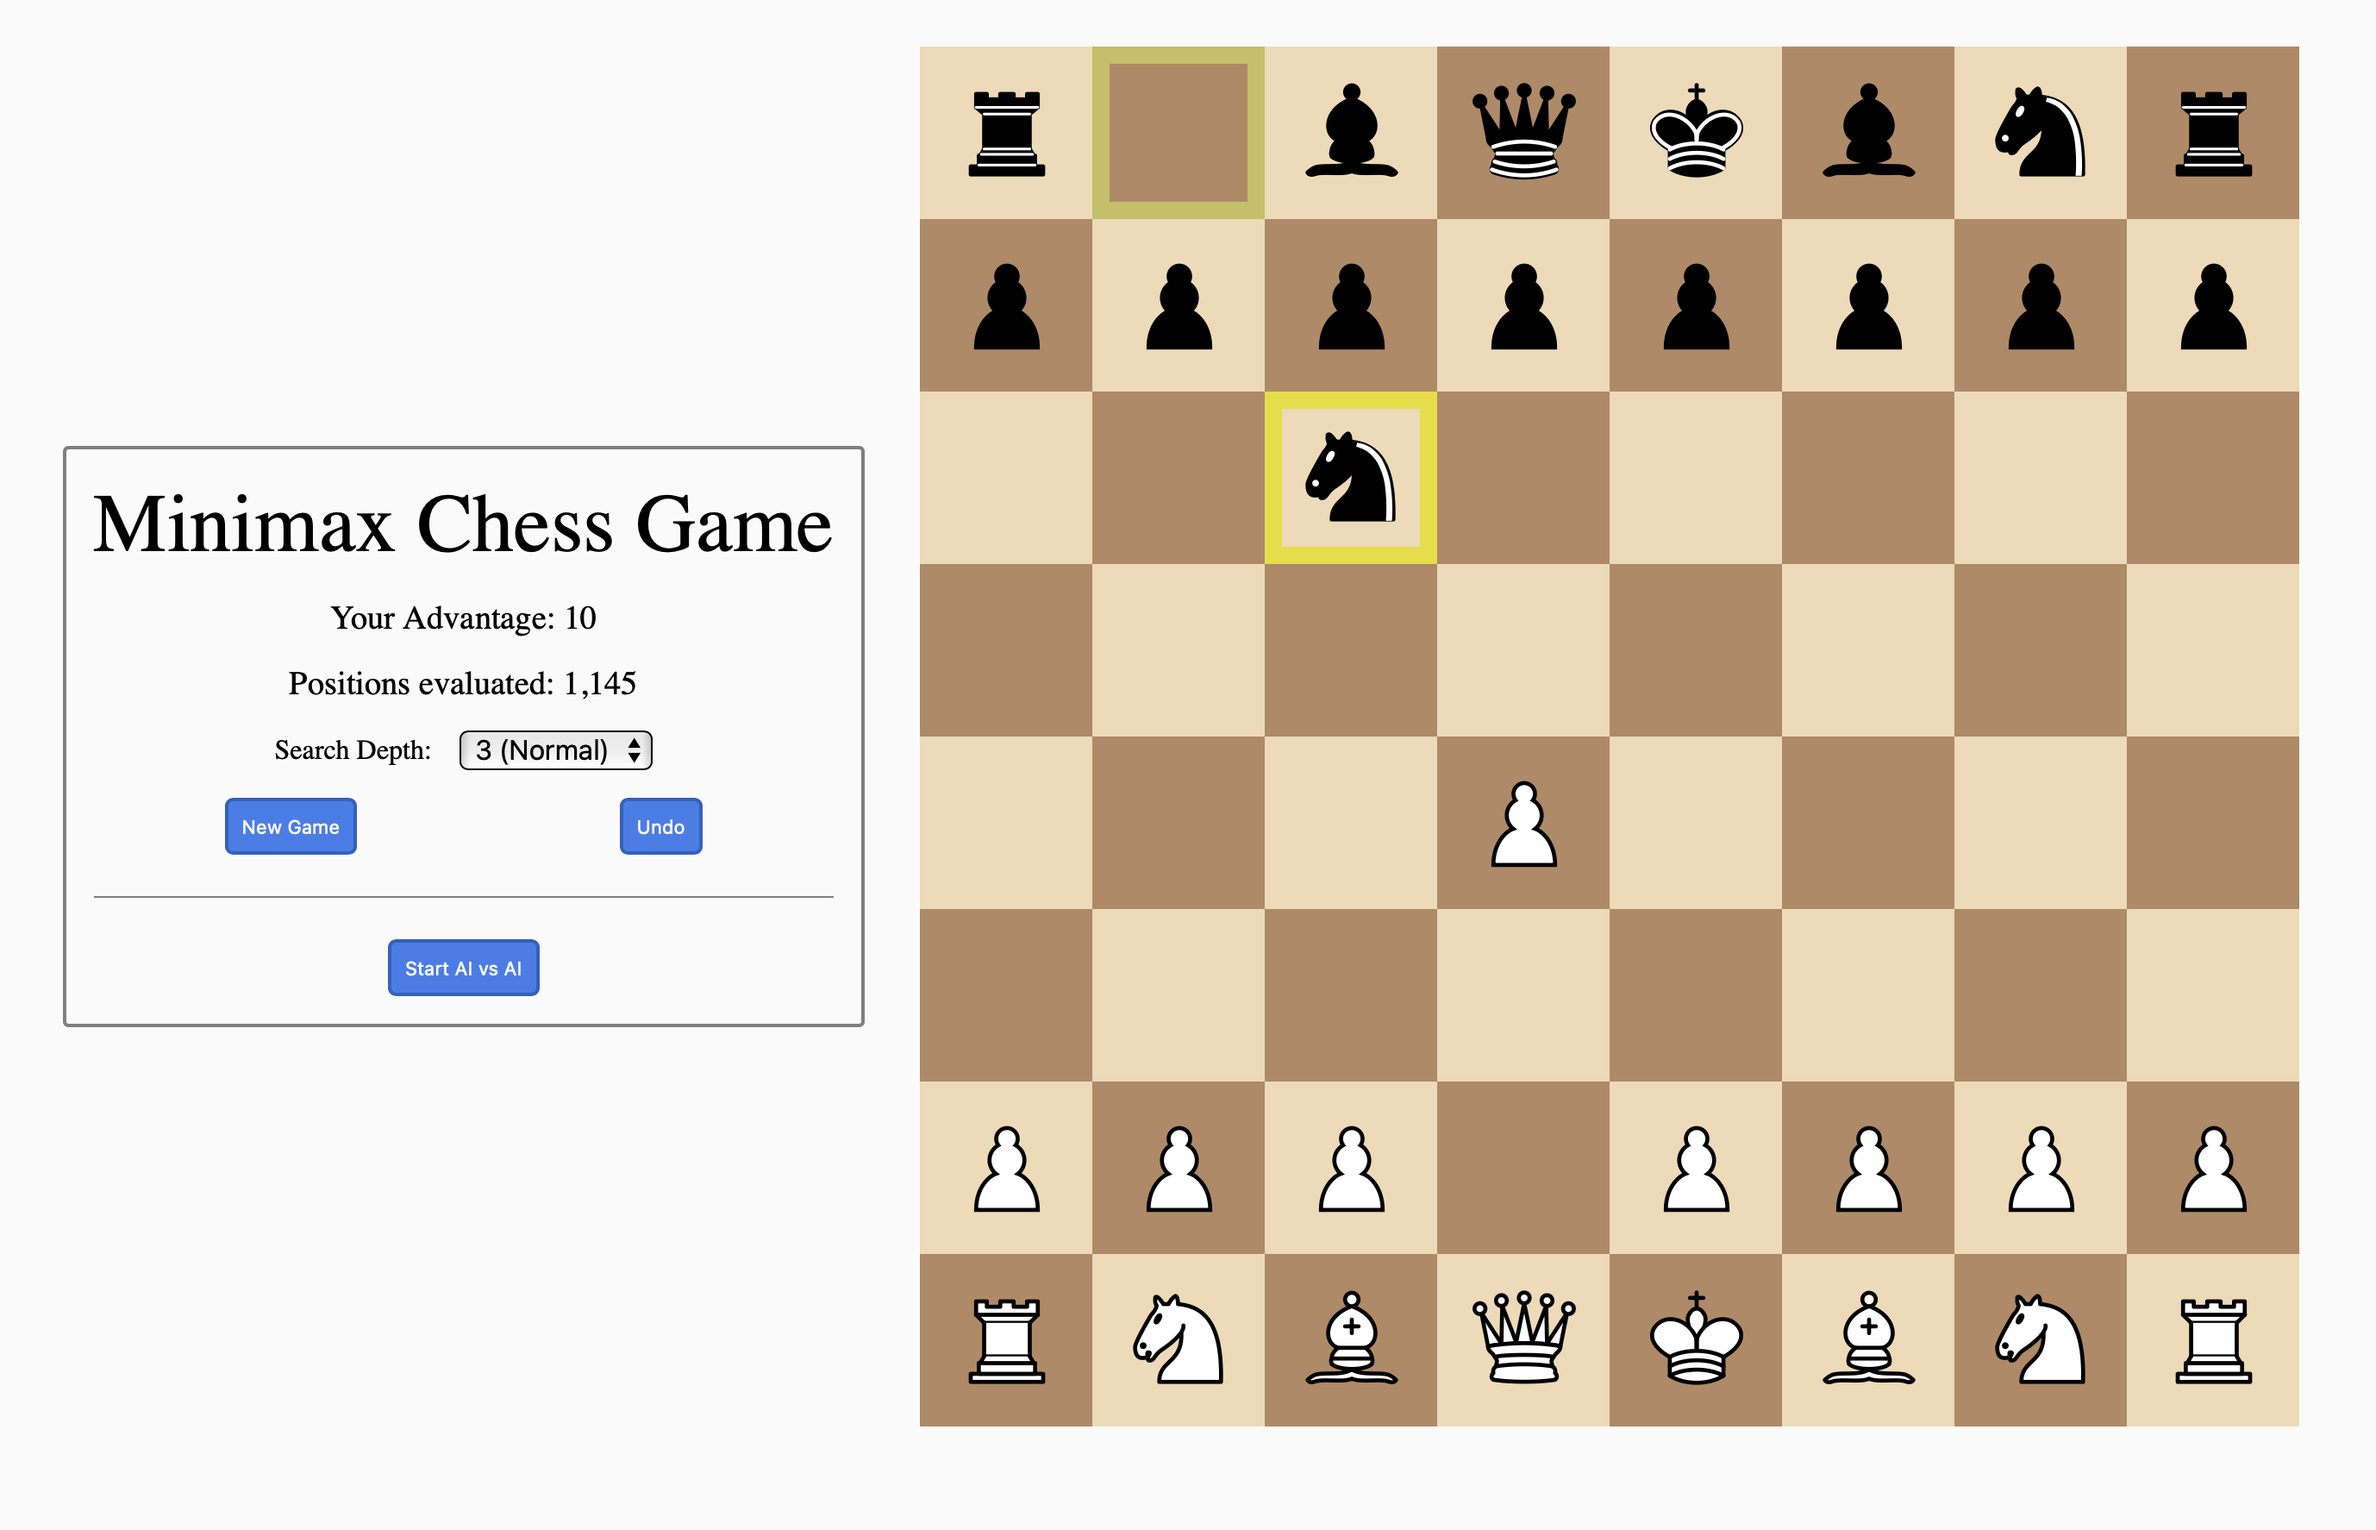
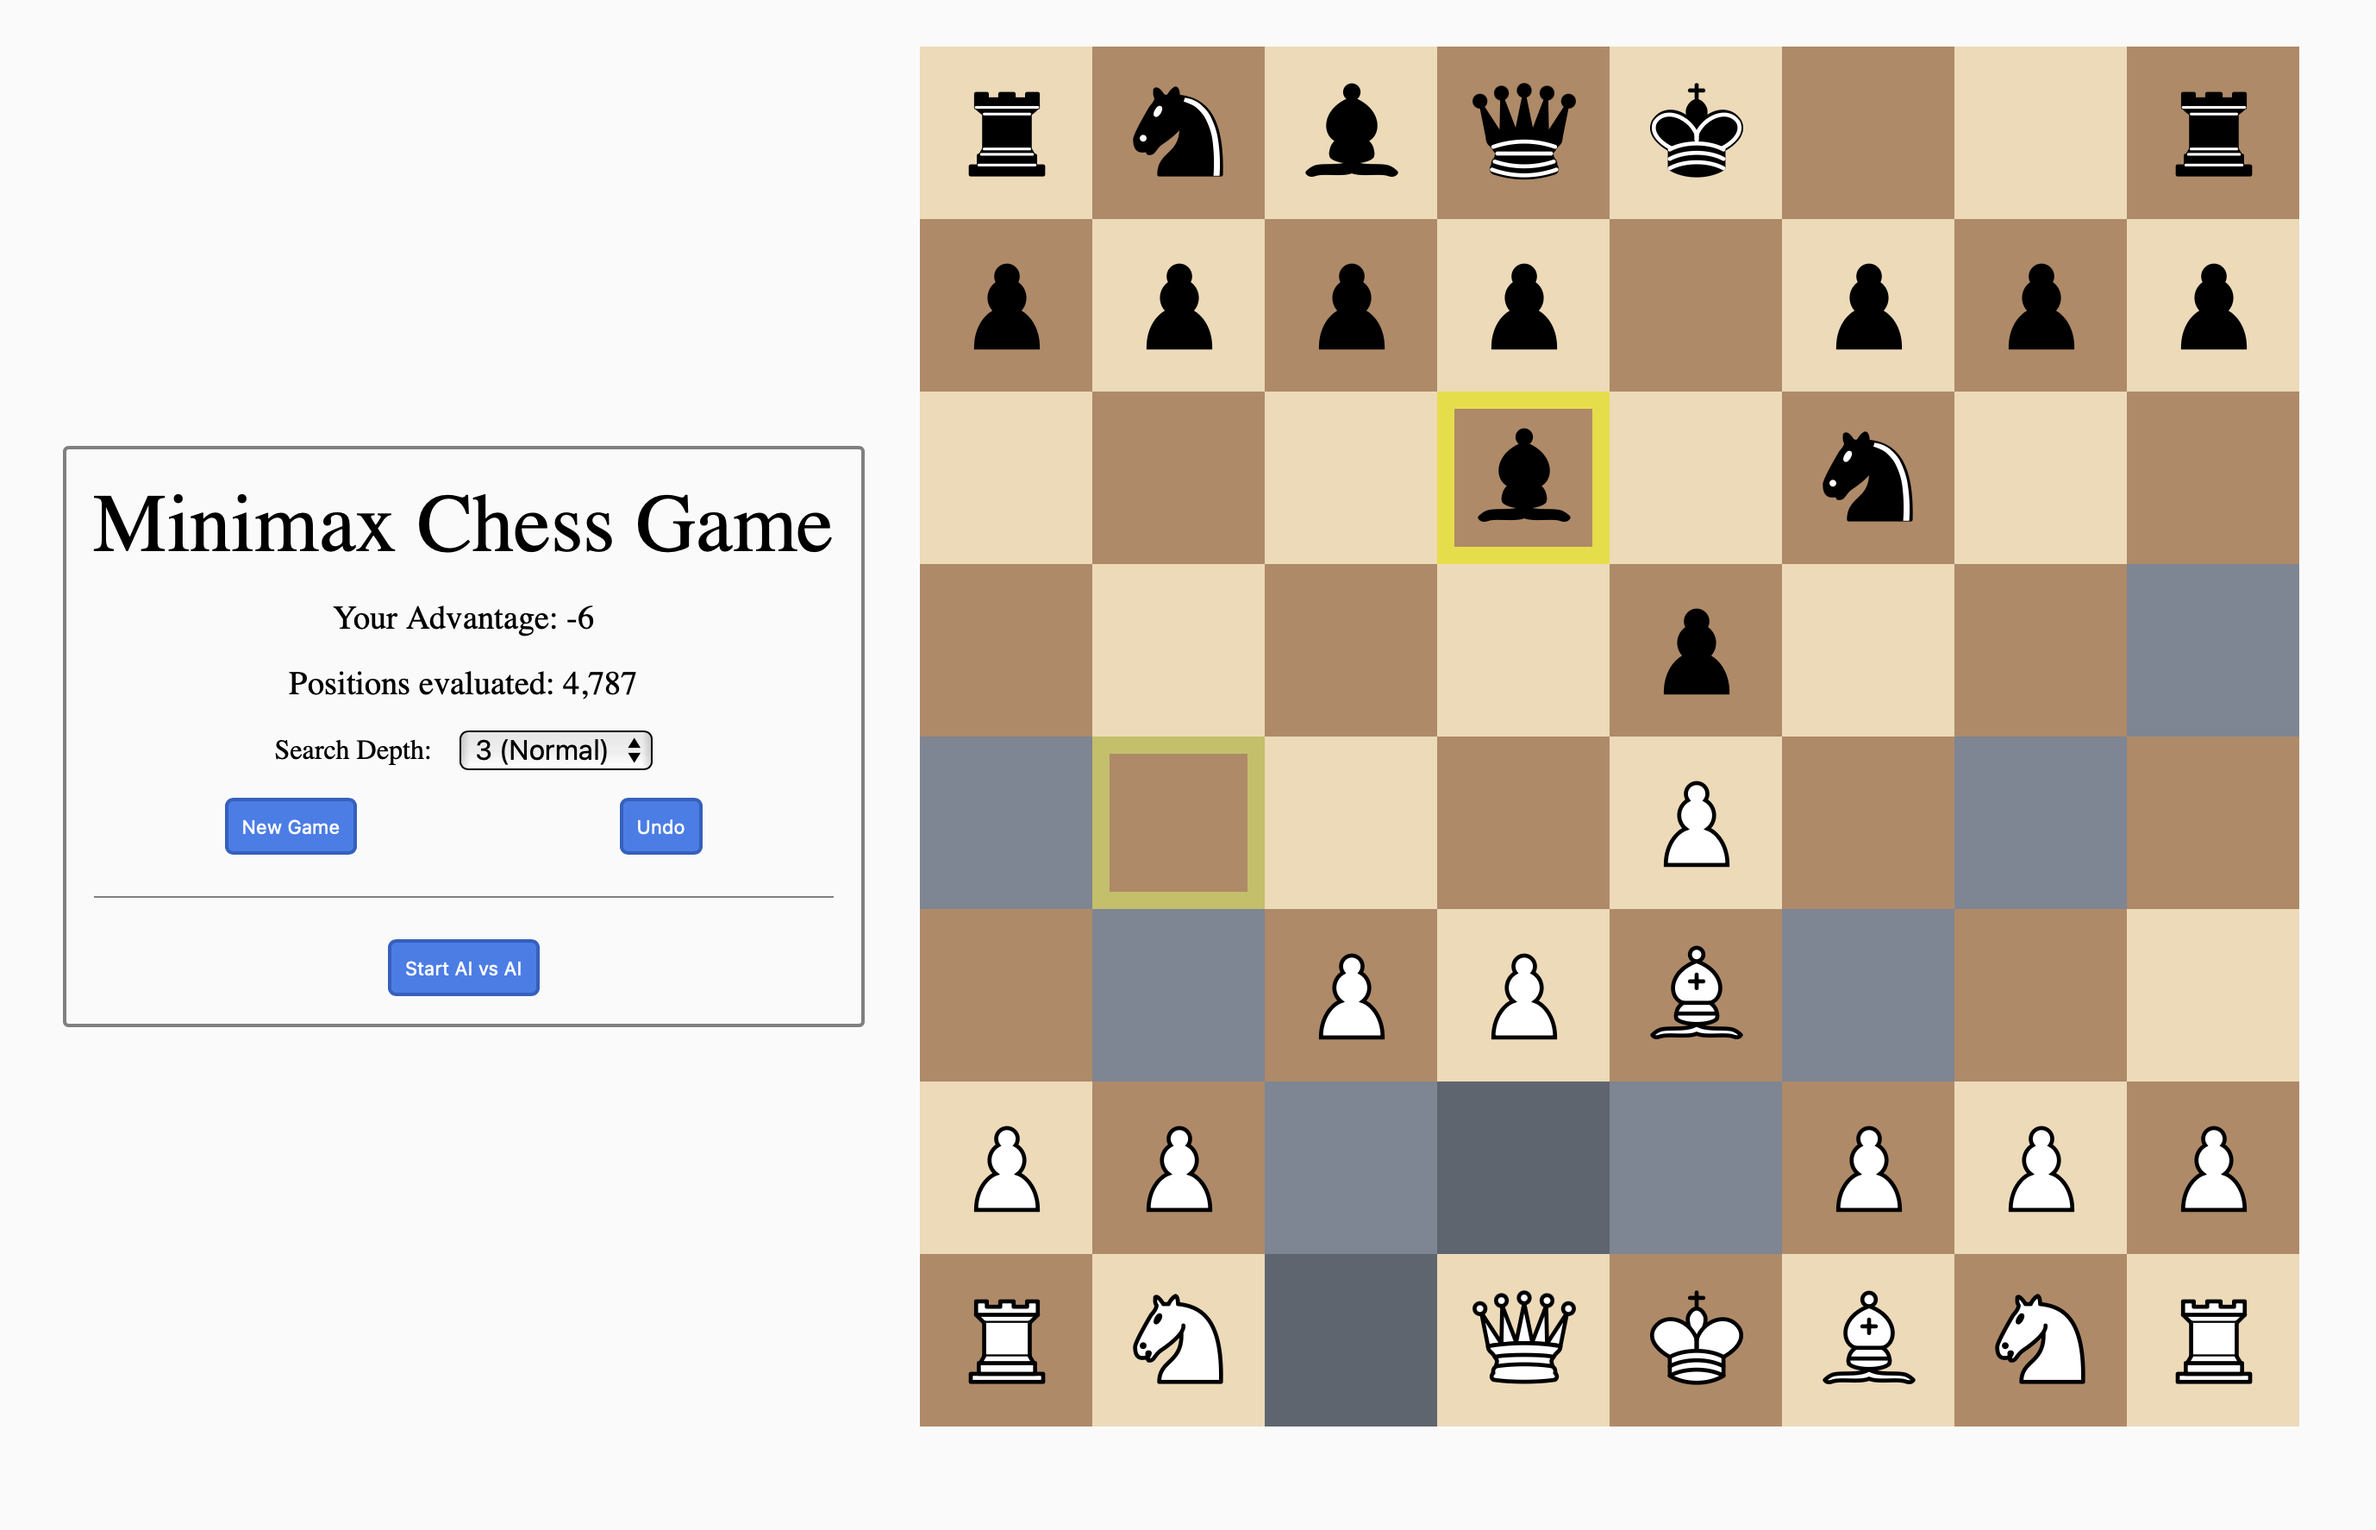
update readme; add controllers dir; change screenshot

diff --git a/src/controllers/ChessGameController.ts b/src/controllers/ChessGameController.ts
@@ -1,8 +1,8 @@
 /* eslint-disable no-dupe-class-members */
 import { ReactiveController, ReactiveControllerHost } from 'lit';
 import { Chess, Move, Square } from 'chess.js';
-import { WorkerResponse } from './types/WorkerTypes';
-import { evaluateBoard } from './utils/Utils';
+import { WorkerResponse } from '../types/WorkerTypes';
+import { evaluateBoard } from '../utils/Utils';
 
 export class ChessGameController implements ReactiveController {
   private _host: ReactiveControllerHost;
@@ -19,7 +19,6 @@ export class ChessGameController implements ReactiveController {
 
   private _isAIvsAIMode: boolean = false;
 
-
   private _isThinking: boolean = false;
 
   constructor(host: ReactiveControllerHost) {
@@ -33,7 +32,7 @@ export class ChessGameController implements ReactiveController {
     if (typeof window === 'undefined') return;
 
     this._worker = new Worker(
-      new URL('./utils/MinimaxWorker.js', import.meta.url),
+      new URL('../utils/MinimaxWorker.js', import.meta.url),
       { type: 'module' },
     );
     this._worker.onmessage = (e: MessageEvent<WorkerResponse>) => {
@@ -80,10 +79,10 @@ export class ChessGameController implements ReactiveController {
   movePiece(
     moveParams:
       | {
-        from: string;
-        to: string;
-        promotion: string;
-      }
+          from: string;
+          to: string;
+          promotion: string;
+        }
       | string
       | Move,
   ): void {
@@ -161,12 +160,11 @@ export class ChessGameController implements ReactiveController {
 
   getValidMoves = (squareId: Square) => {
     const moves = this._game?.moves({ square: squareId, verbose: true }) || [];
-    const squaresToMoveTo = moves.map((move) => move.to);
+    const squaresToMoveTo = moves.map(move => move.to);
     return squaresToMoveTo;
-  }
+  };
 
   startAIvsAIMode() {
-
     this._isAIvsAIMode = true;
     this._game?.reset();
     this._lastMove = null;
@@ -196,7 +194,12 @@ export class ChessGameController implements ReactiveController {
 
   makeAiMove() {
     // Ensure worker exists and we are in a browser context before posting message
-    if (this._worker && typeof window !== 'undefined' && !this._isThinking && !this.isGameOver) {
+    if (
+      this._worker &&
+      typeof window !== 'undefined' &&
+      !this._isThinking &&
+      !this.isGameOver
+    ) {
       this._isThinking = true;
       this._worker.postMessage({
         fen: this._game?.fen(),

diff --git a/src/ChessApp.ts b/src/ChessApp.ts
@@ -3,12 +3,12 @@ import { LitElement, PropertyValues, css, html } from 'lit';
 import { customElement, state } from 'lit/decorators.js';
 import { ChessPieceColour } from './types/ChessBoardElementTypes';
 import { DialogMessage } from './types/DialogTypes';
-import { ChessGameController } from './ChessGameController';
+import { ChessGameController } from './controllers/ChessGameController';
 import './components/ChessBoard';
 import './components/ChessPanel';
 import './components/Button';
 import { DepthChangedEvent, RequestMoveEvent } from './types/EventTypes';
-import DialogController from './DialogController';
+import { DialogController } from './controllers/DialogController';
 
 @customElement('chess-app')
 export class ChessApp extends LitElement {

diff --git a/src/controllers/DialogController.ts b/src/controllers/DialogController.ts
@@ -6,15 +6,15 @@ import {
   render,
   TemplateResult,
 } from 'lit';
-import { DialogElement } from './components/DialogElement';
-import { CloseDialogEvent } from './types/EventTypes';
+import { DialogElement } from '../components/DialogElement';
+import { CloseDialogEvent } from '../types/EventTypes';
 
 export interface DialogProperties {
   contentRenderer: () => TemplateResult;
   styles?: CSSResult;
 }
 
-export default class DialogController implements ReactiveController {
+export class DialogController implements ReactiveController {
   private _host: ReactiveControllerHost;
 
   private _dialogElement: HTMLElement | null = null;

diff --git a/src/index.ts b/src/index.ts
@@ -1,6 +1,5 @@
 export * from './ChessApp';
-export * from './ChessGameController';
-export * from './DialogController';
+export * from './controllers/index';
 export * from './components/index';
 export * from './pieces/index';
 export * from './types/index';

diff --git a/src/controllers/index.ts b/src/controllers/index.ts
@@ -1,0 +1,2 @@
+export * from './ChessGameController';
+export * from './DialogController';

diff --git a/README.md b/README.md
@@ -5,6 +5,7 @@ This web component provides a playable chess game, including AI capabilities. It
 The only dependencies are Lit (a lightweight framework for creating web components), and chess.js which is used for move validation.
 
 A custom minimax algorithm is used to find the best move for the AI. An AI vs AI mode is provided to demonstrate the AI capabilities.
+As the minimax algorithm is tree based, the search depth can be controlled, which corresponds to how far down the tree the algorithm searches. The deeper the search, the better the AI's move will be, but the longer it will take to calculate. To prevent the UI freezing during the calculation, a web worker is used to run the algorithm in a separate thread.
 
 ![minimax-chess-component](./app-screenshot.png)
 
@@ -20,7 +21,7 @@ npm i minimax-chess-component
 npm run start
 ```
 
-To run a local development server that serves the basic demo located in `demo/index.html`
+To run a local development server that serves the demo located in `demo/index.html`
 
 ## Rendering component in an HTML file
 
